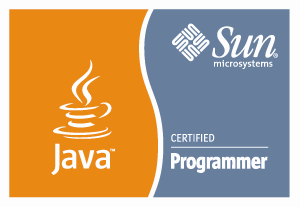
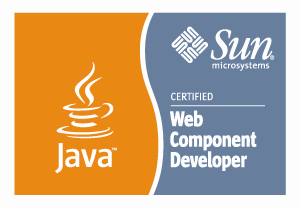
update my resume

Changed region(s): [[0.03, 0.029, 0.99, 0.9565], [0.15, 0.2899, 0.39, 0.8406]]

diff --git a/README.md b/README.md
@@ -1,5 +1,5 @@
-Paramsivam K                                            <img src="https://github.com/paramothers/docs/blob/master/SCJP.png" width="88" alt="For Java 1.5"> &nbsp; <img src="https://github.com/paramothers/docs/blob/master/SCWCD.png" width="88" alt="For Servlet 2.5, JSP 1.2 and JSTL 1.1">
-==============================================================================================================================================================================================================================================================================================
+Paramsivam K                                            <img src="https://github.com/paramothers/docs/blob/master/SCJP.png" width="88" alt="For Java 1.5"> <img src="https://github.com/paramothers/docs/blob/master/SCWCD.png" width="88" alt="For Servlet 2.5, JSP 1.2 and JSTL 1.1"><img src="https://github.com/paramothers/docs/blob/master/SCBCD.png" width="88" alt="For EJB 2.1">
+=========================================================================================================================================================================================================================================================================================================================================================================================
 
 ##### 491499 - 91 9940651567 - paramasivam.k1@tcs.com #####
 
